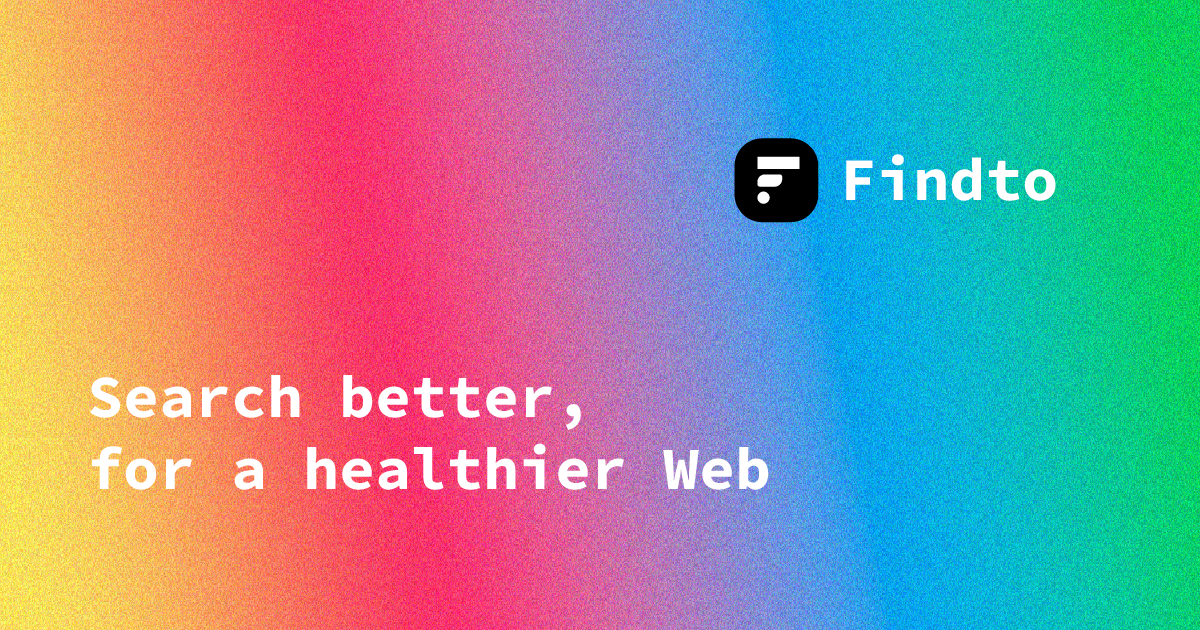
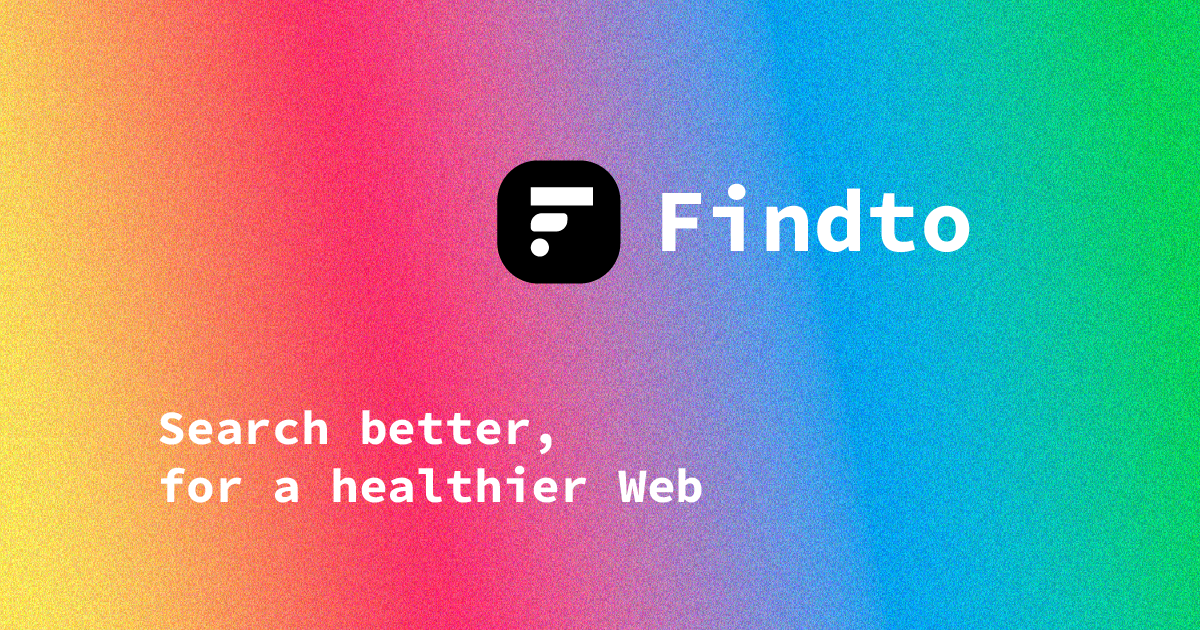
new share img + public services brazil

Changed region(s): [[0.0617, 0.6032, 0.6475, 0.8143], [0.4008, 0.2111, 0.8942, 0.4524]]

diff --git a/pages/api/trends/legal.ts b/pages/api/trends/legal.ts
@@ -1,0 +1,109 @@
+import type { NextApiRequest, NextApiResponse } from 'next'
+import axios from 'axios'
+import { ITrends } from '../../../interfaces/trends'
+
+export default async function endpoint(req: NextApiRequest, res: NextApiResponse): Promise<void> {
+  const {
+    query: { country },
+  } = req
+
+  if (country) {
+    if (country === 'BR') {
+      const mockBrazil: ITrends = {
+        title: 'Serviços públicos',
+        credits_title: 'Gov.br',
+        credits_url: 'https://www.gov.br/pt-br',
+        data: [
+          {
+            title: 'Consultar restituição de imposto de renda',
+            url: 'https://www.gov.br/pt-br/servicos/consultar-restituicao-de-imposto-de-renda',
+          },
+          {
+            title: 'Consultar CPF',
+            url: 'https://www.gov.br/pt-br/servicos/consultar-cadastro-de-pessoas-fisicas',
+          },
+          {
+            title: 'Consultar CNPJ',
+            url: 'https://www.gov.br/pt-br/servicos/consultar-cadastro-nacional-de-pessoas-juridicas',
+          },
+          {
+            title: 'Consultar dívidas e pendências fiscais',
+            url: 'https://www.gov.br/pt-br/servicos/consultar-dividas-e-pendencias-fiscais',
+          },
+          {
+            title: 'Realizar a Assinatura Eletrônica de documentos',
+            url: 'https://www.gov.br/pt-br/servicos/assinatura-eletronica',
+          },
+          {
+            title: 'Obter a Carteira de Trabalho',
+            url: 'https://www.gov.br/pt-br/servicos/obter-a-carteira-de-trabalho',
+          },
+          {
+            title: 'Emitir certidão de regularidade fiscal',
+            url: 'https://www.gov.br/pt-br/servicos/emitir-certidao-de-regularidade-fiscal',
+          },
+          {
+            title: 'Obter CPF',
+            url: 'https://www.gov.br/pt-br/servicos/obter-cartao-de-cpf',
+          },
+          {
+            title: 'Inscrever ou atualizar CNPJ',
+            url: 'https://www.gov.br/pt-br/servicos/inscrever-ou-atualizar-cadastro-nacional-de-pessoas-juridicas',
+          },
+          {
+            title: 'Esclarecer dúvidas sobre proteção de dados pessoais',
+            url: 'https://www.gov.br/pt-br/servicos/esclarecer-duvidas-sobre-protecao-de-dados-pessoais',
+          },
+          {
+            title: 'Atendimento eleitoral',
+            url: 'https://www.tse.jus.br/servicos-eleitorais/autoatendimento-eleitoral#/',
+          },
+          {
+            title: 'Opine sobre as propostas legislativas na Câmara dos Deputados',
+            url: 'https://www.camara.leg.br/enquetes/',
+          },
+          {
+            title: 'Proponha e apoie ideias de novas leis no Senado',
+            url: 'https://www12.senado.leg.br/ecidadania/principalideia',
+          },
+          {
+            title: 'Manifeste solicitação ao Governo',
+            url: 'https://falabr.cgu.gov.br/',
+          },
+        ],
+      }
+
+      res.status(200).send(mockBrazil)
+    } else {
+      let url =
+        'https://api.bestbuy.com/beta/products/trendingViewed?apiKey=' +
+        process.env.NEXT_PUBLIC_API_BESTBUY
+
+      await axios
+        .get(url)
+        .then(({ data }) => {
+          var a = []
+
+          for (var i in data.results) {
+            a.push({
+              title: data.results[i]?.names?.title,
+              url: data.results[i]?.links?.web,
+            })
+          }
+
+          const x: ITrends = {
+            credits_title: 'Best Buy',
+            credits_url: 'https://bestbuy.com/',
+            data: a,
+          }
+
+          res.status(200).send(x)
+        })
+        .catch(({ err }) => {
+          res.status(400).json({ err })
+        })
+    }
+  } else {
+    res.status(405).end('Missing parameters COUNTRY_CODE - ' + country)
+  }
+}

diff --git a/components/app/WidgetPrivacy/index.tsx b/components/app/WidgetPrivacy/index.tsx
@@ -72,19 +72,19 @@ export default function WidgetPrivacy() {
   function defineLabels(score: number) {
     if (score) {
       if (score >= 300 && score <= 579) {
-        setLabel('VERY POOR')
+        setLabel('very poor')
       }
       if (score >= 580 && score <= 669) {
-        setLabel('FAIR')
+        setLabel('fair')
       }
       if (score >= 670 && score <= 739) {
-        setLabel('GOOD')
+        setLabel('good')
       }
       if (score >= 740 && score <= 799) {
-        setLabel('VERY GOOD')
+        setLabel('very good')
       }
       if (score >= 800 && score <= 850) {
-        setLabel('EXCEPTIONAL')
+        setLabel('exceptional')
       }
     } else {
       setLabel('Unavailable')
@@ -168,7 +168,7 @@ export default function WidgetPrivacy() {
             {dataPrivacy?.name} has a {label} privacy
           </p>
         )}
-        {isErrorPrivacy && <p> Ops, {domain} hasn't been analyzed yet</p>}
+        {isErrorPrivacy && <p> Ops, privacy of {domain} hasn't been analyzed yet</p>}
       </div>
     </WidgetContainer>
   )

diff --git a/components/app/WidgetTrends/index.tsx b/components/app/WidgetTrends/index.tsx
@@ -165,6 +165,20 @@ export default function SearchTrends() {
   }
   const { dataJobs, errorJobs } = useApiJobs()
 
+  // Legal
+  function useApiLegal() {
+    const { data, error } = useSWR(
+      country && category === 'Legal' ? `/api/trends/legal?country=${country}` : null,
+      fetcher
+    )
+
+    return {
+      dataLegal: data,
+      errorLegal: error,
+    }
+  }
+  const { dataLegal, errorLegal } = useApiLegal()
+
   // Apps
   function useApiApps() {
     const { data, error } = useSWR(
@@ -247,6 +261,12 @@ export default function SearchTrends() {
           errorNews && setErrorTrends(errorNews)
         }
         break
+      case 'Legal':
+        {
+          dataLegal && setDataTrends(dataLegal)
+          errorLegal && setErrorTrends(errorLegal)
+        }
+        break
       case 'Apps':
         {
           dataApps && setDataTrends(dataApps)
@@ -286,6 +306,8 @@ export default function SearchTrends() {
     errorNews,
     dataApps,
     errorApps,
+    dataLegal,
+    errorLegal,
   ])
 
   return (

diff --git a/interfaces/trends.ts b/interfaces/trends.ts
@@ -1,4 +1,5 @@
 export interface ITrends {
+  title?: string
   credits_title: string
   credits_url: string
   data: ITrendsItem[]
